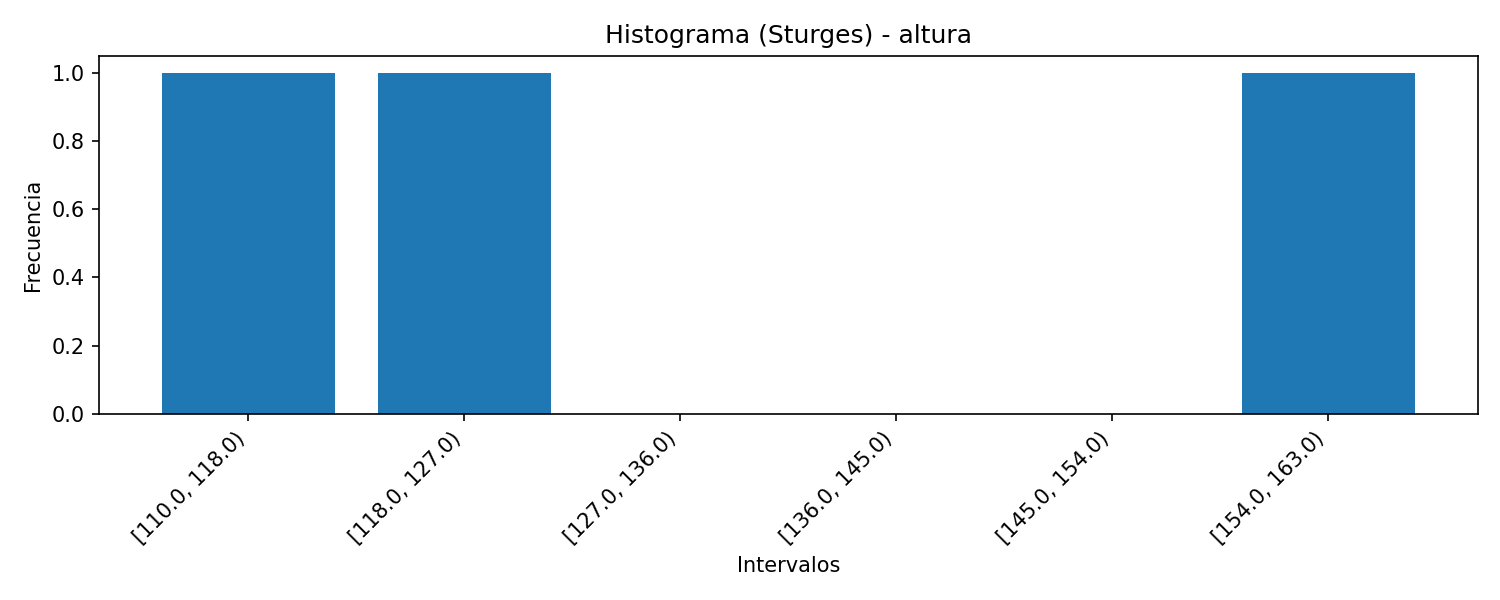
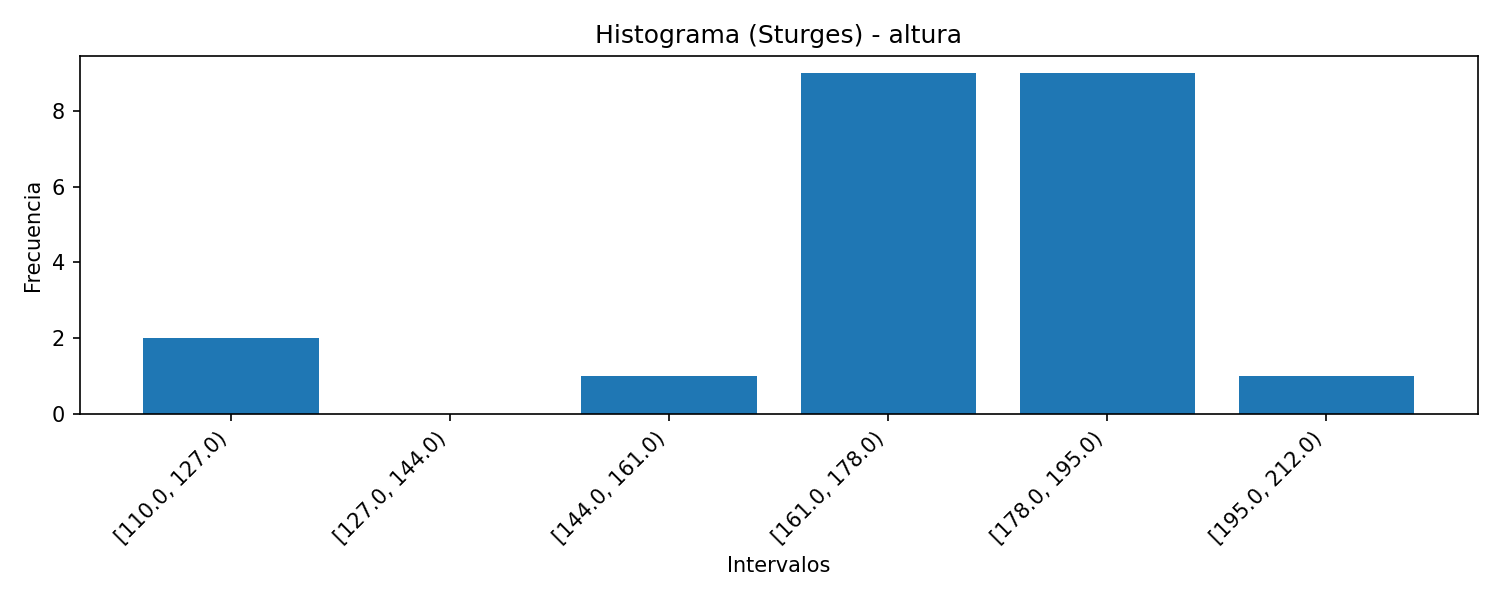
cvambios

diff --git a/estadistica/ejemplo1/graficas.py b/estadistica/ejemplo1/graficas.py
@@ -83,6 +83,10 @@ def limites_tukey(q1: float, q3: float) -> tuple[float, float, float]:
 def atipicos_por_limites(datos: np.ndarray, lim_inf: float, lim_sup: float) -> np.ndarray:
     return datos[(datos < lim_inf) | (datos > lim_sup)]
 
+def quitar_atipicos(datos: np.ndarray, lim_inf: float, lim_sup: float) -> np.ndarray:
+    """Esto sí 'quita' atípicos (como en tu imagen) y permite recalcular cuartiles."""
+    return datos[(datos >= lim_inf) & (datos <= lim_sup)]
+
 # ============================================================
 # 3) STURGES (k, amplitud, intervalos, frecuencias)
 # ============================================================
@@ -96,20 +100,14 @@ def tabla_sturges(datos: np.ndarray):
     k_real = 1 + np.log2(n)
     k = int(np.ceil(k_real))
 
-    # ✅ amplitud fija a 9 (como quieres)
-    ancho = 9
+    ancho = int(np.ceil(rango / k)) if k > 0 else 1
+    if ancho == 0:
+        ancho = 1
 
-    # ✅ bins estilo cuaderno: 3–11, 11–20, 20–29, 29–38, 38–47, 47–50
-    # Para lograr eso con ancho 9: los internos son +9 pero restando 1 a los bordes.
-    edges = [minimo]  # 3
-    for _ in range(k - 1):
-        edges.append(edges[-1] + ancho)  # 12, 21, 30, 39, 48
-    # Ajuste -1 a los bordes internos para que quede 11,20,29,38,47
-    for i in range(1, len(edges)):
-        edges[i] -= 1
+    edges = [minimo + i * ancho for i in range(k + 1)]
 
-    # Último borde = max exacto (50) pero con epsilon para que 50 entre con right=False
-    edges.append(edges[-1] + ancho)  # 56
+    if edges[-1] <= maximo:
+        edges[-1] = maximo + 1e-9
 
     cats = pd.cut(datos, bins=edges, right=False, include_lowest=True)
     freq = pd.Series(cats).value_counts(sort=False)
@@ -124,54 +122,53 @@ def tabla_sturges(datos: np.ndarray):
 # ============================================================
 # 4) BOXPLOTS + HISTOGRAMA (guardar en carpeta resultados)
 # ============================================================
-def boxplot_columna(datos: np.ndarray, col: str, carpeta_salida: str):
+def boxplot_columna(datos: np.ndarray, col: str, carpeta_salida: str, sufijo: str, showfliers: bool = True):
     plt.figure(figsize=(3, 10))
-    plt.boxplot(datos, vert=True, widths=0.35)
-    plt.title(f"Boxplot - {col}")
+    plt.boxplot(datos, vert=True, widths=0.35, showfliers=showfliers)
+    plt.title(f"Boxplot ({sufijo}) - {col}")
     plt.ylabel(col)
     plt.xticks([1], [col])
     plt.tight_layout()
 
-    ruta = os.path.join(carpeta_salida, f"boxplot_{col}.png")
+    ruta = os.path.join(carpeta_salida, f"boxplot_{col}_{sufijo}.png")
     plt.savefig(ruta, dpi=150)
     plt.close()
-    print(f"✓ boxplot_{col}.png")
+    print(f"✓ boxplot_{col}_{sufijo}.png")
 
-def boxplot_columna_con_puntos(datos: np.ndarray, col: str, carpeta_salida: str):
+def boxplot_columna_con_puntos(datos: np.ndarray, col: str, carpeta_salida: str, sufijo: str, showfliers: bool = True):
     plt.figure(figsize=(3, 10))
-    plt.boxplot(datos, vert=True, widths=0.35)
+    plt.boxplot(datos, vert=True, widths=0.35, showfliers=showfliers)
 
     rng = np.random.default_rng(42)
     x = 1 + rng.normal(0, 0.03, size=len(datos))
     plt.scatter(x, datos, alpha=0.7, s=18, zorder=3)
 
-    plt.title(f"Boxplot + puntos - {col}")
+    plt.title(f"Boxplot + puntos ({sufijo}) - {col}")
     plt.ylabel(col)
     plt.xticks([1], [col])
     plt.tight_layout()
 
-    ruta = os.path.join(carpeta_salida, f"boxplot_puntos_{col}.png")
+    ruta = os.path.join(carpeta_salida, f"boxplot_puntos_{col}_{sufijo}.png")
     plt.savefig(ruta, dpi=150)
     plt.close()
-    print(f"✓ boxplot_puntos_{col}.png")
+    print(f"✓ boxplot_puntos_{col}_{sufijo}.png")
 
-def histograma_sturges(tabla: pd.DataFrame, col: str, carpeta_salida: str):
-    # tabla tiene: Intervalo, Frecuencia
+def histograma_sturges(tabla: pd.DataFrame, col: str, carpeta_salida: str, sufijo: str):
     etiquetas = tabla["Intervalo"].astype(str).tolist()
     frecuencias = tabla["Frecuencia"].to_numpy()
 
     plt.figure(figsize=(10, 4))
     plt.bar(range(len(frecuencias)), frecuencias)
-    plt.title(f"Histograma (Sturges) - {col}")
+    plt.title(f"Histograma (Sturges) ({sufijo}) - {col}")
     plt.xlabel("Intervalos")
     plt.ylabel("Frecuencia")
     plt.xticks(range(len(etiquetas)), etiquetas, rotation=45, ha="right")
     plt.tight_layout()
 
-    ruta = os.path.join(carpeta_salida, f"hist_sturges_{col}.png")
+    ruta = os.path.join(carpeta_salida, f"hist_sturges_{col}_{sufijo}.png")
     plt.savefig(ruta, dpi=150)
     plt.close()
-    print(f"✓ hist_sturges_{col}.png")
+    print(f"✓ hist_sturges_{col}_{sufijo}.png")
 
 # ============================================================
 # 5) MAIN
@@ -181,7 +178,8 @@ def main():
 
     carpeta_salida = "resultados"
     os.makedirs(carpeta_salida, exist_ok=True)
- # ACA SELEE EL CSV
+
+    # ACA SELEE EL CSV
     df = leer_csv_o_ejemplo("edades.csv")
     df_num = convertir_a_numerico(df)
 
@@ -193,7 +191,7 @@ def main():
         datos = preparar_datos_columna(df_num, col)
         n = len(datos)
 
-        # --- Tukey + atípicos ---
+        # --- Tukey + atípicos (con TODOS los datos) ---
         q1, q2, q3 = cuartiles_tukey(datos)
         ric, lim_inf, lim_sup = limites_tukey(q1, q3)
         atipicos = atipicos_por_limites(datos, lim_inf, lim_sup)
@@ -206,18 +204,53 @@ def main():
         print("Límites:", lim_inf, lim_sup)
         print("Atípicos:", atipicos.tolist() if len(atipicos) else "No hay")
 
-        # --- Sturges ---
+        # --- DATOS SIN ATÍPICOS (como en tu imagen) ---
+        datos_sin = quitar_atipicos(datos, lim_inf, lim_sup)
+
+        print("\nQuitando atípicos:")
+        print("n_sin_atipicos:", len(datos_sin))
+        if len(datos_sin) > 0:
+            q1s, q2s, q3s = cuartiles_tukey(datos_sin)
+            rics, linfs, lsups = limites_tukey(q1s, q3s)
+            print("Q1:", q1s, "Q2:", q2s, "Q3:", q3s)
+            print("RIC:", rics)
+            print("Límites (recalculados):", linfs, lsups)
+
+        # --- Sturges (con datos completos) ---
         k_real, k, ancho, minimo, maximo, rango, edges, tabla = tabla_sturges(datos)
-        print("\nSturges:")
+        print("\nSturges (con atípicos):")
         print("Min:", minimo, "Max:", maximo, "Rango:", rango)
         print("k_real:", k_real, "=> k:", k)
         print("Amplitud:", ancho)
         print(tabla.to_string(index=False))
 
+        # --- Sturges (sin atípicos, opcional) ---
+        if len(datos_sin) >= 2:
+            k_real2, k2, ancho2, min2, max2, rango2, edges2, tabla2 = tabla_sturges(datos_sin)
+            print("\nSturges (sin atípicos):")
+            print("Min:", min2, "Max:", max2, "Rango:", rango2)
+            print("k_real:", k_real2, "=> k:", k2)
+            print("Amplitud:", ancho2)
+            print(tabla2.to_string(index=False))
+        else:
+            tabla2 = None
+
         # --- Gráficas ---
-        boxplot_columna(datos, col, carpeta_salida)
-        boxplot_columna_con_puntos(datos, col, carpeta_salida)
-        histograma_sturges(tabla, col, carpeta_salida)
+        # 1) Con atípicos (normal)
+        boxplot_columna(datos, col, carpeta_salida, "con_atipicos", showfliers=True)
+        boxplot_columna_con_puntos(datos, col, carpeta_salida, "con_atipicos", showfliers=True)
+        histograma_sturges(tabla, col, carpeta_salida, "con_atipicos")
+
+        # 2) Sin atípicos (recalculado, como tu imagen)
+        if len(datos_sin) > 0:
+            boxplot_columna(datos_sin, col, carpeta_salida, "sin_atipicos", showfliers=True)
+            boxplot_columna_con_puntos(datos_sin, col, carpeta_salida, "sin_atipicos", showfliers=True)
+            if tabla2 is not None:
+                histograma_sturges(tabla2, col, carpeta_salida, "sin_atipicos")
+
+        # 3) Extra: si SOLO quieres ocultar los fliers sin filtrar (NO recalcula caja)
+        # boxplot_columna(datos, col, carpeta_salida, "ocultando_fliers", showfliers=False)
+
     print("-" * 55)
     print(f"Gráficas guardadas en: ./{carpeta_salida}/")
 
